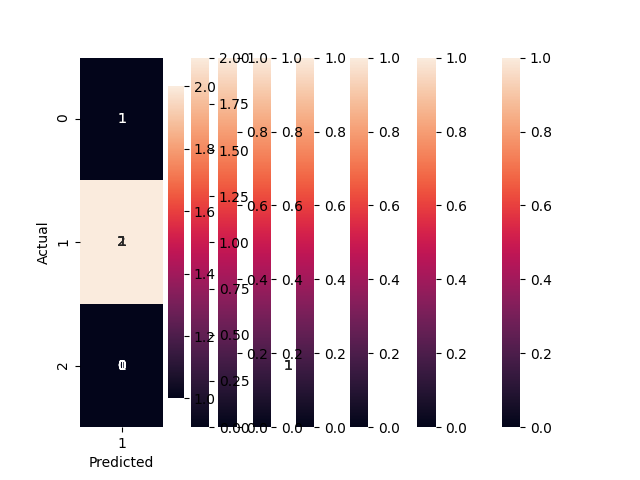
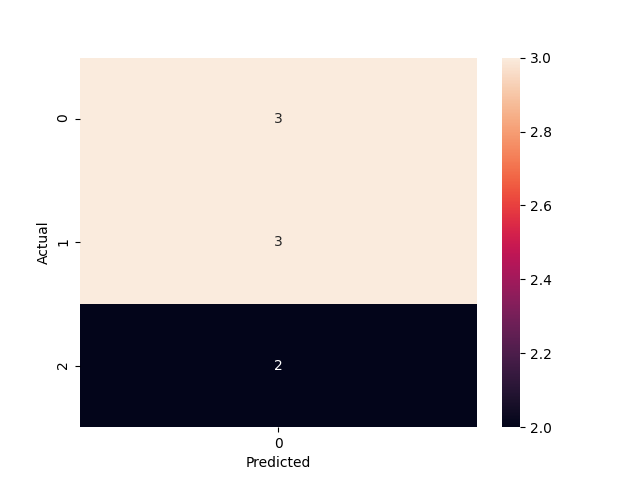
latest upates

diff --git a/week12_ml/multiple_models_example.py b/week12_ml/multiple_models_example.py
@@ -6,6 +6,7 @@ import seaborn as sn
 import matplotlib.pyplot as plt
 
 import pandas as pd
+import numpy as np
 
 
 
@@ -34,7 +35,7 @@ X = df[['gmat', 'gpa','work_experience','age']]
 y = df['admitted']
 
 
-X_train,X_test,y_train,y_test = train_test_split(X,y,test_size=0.1,random_state=0)
+X_train,X_test,y_train,y_test = train_test_split(X,y,test_size=0.20,random_state=0)
 
 
 #build and test random forest model
@@ -61,22 +62,26 @@ print(clf.predict([[660, 2, 3, 25]])) #  predict candidate with gmat 660, gpa 2.
 models = [LogisticRegression(), DecisionTreeClassifier(), KNeighborsClassifier(), 
     GaussianNB(), LinearDiscriminantAnalysis(), SVC(), MLPClassifier()]
     
+
 for model in models:
-    
+    print(str(model) + "...")
     clf = model
     clf.fit(X_train,y_train)
     y_pred=clf.predict(X_test)
     print("y predictions: ", y_pred)
     # print("y actuals: ", y_test)
     
+            
     confusion_matrix = pd.crosstab(y_test, y_pred, rownames=['Actual'], colnames=['Predicted'])
     sn.heatmap(confusion_matrix, annot=True).get_figure().savefig("/home/ec2-user/environment/code/week12_ml/random_forest.png")
     # sn.get_figure().savefig("results.png")
     print('Accuracy: ',metrics.accuracy_score(y_test, y_pred))
     plt.show()
-    
+    plt.close()
     print("3 candidate predictions...")
     print(clf.predict([[780, 4, 3, 25]])) # predict candidate with gmat 780, gpa 4.0, 3 yrs work exp., 25 years old
     print(clf.predict([[690, 3.3, 3, 25]])) #  predict candidate with gmat 690, gpa 3.3, 3 yrs work exp., 25 years old
     print(clf.predict([[660, 2, 3, 25]])) #  predict candidate with gmat 660, gpa 2.0, 3 yrs work exp., 25 years old
 
+    # plt.imshow(np.array(twod), cmap='Blues',interpolation="nearest")
+    # plt.savefig(str(model)+".png")
